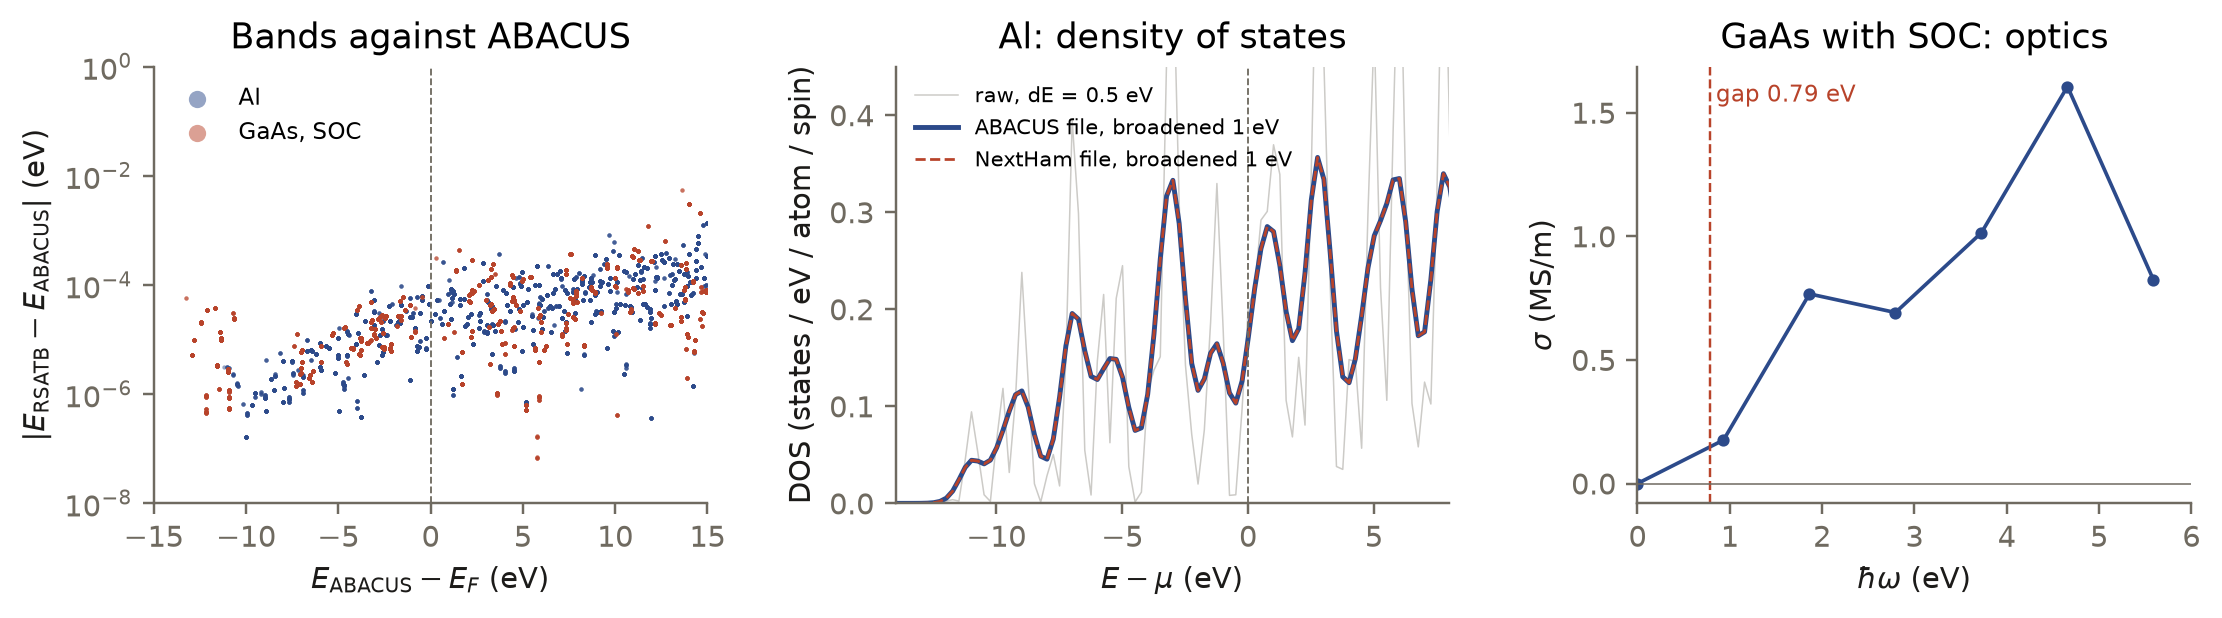
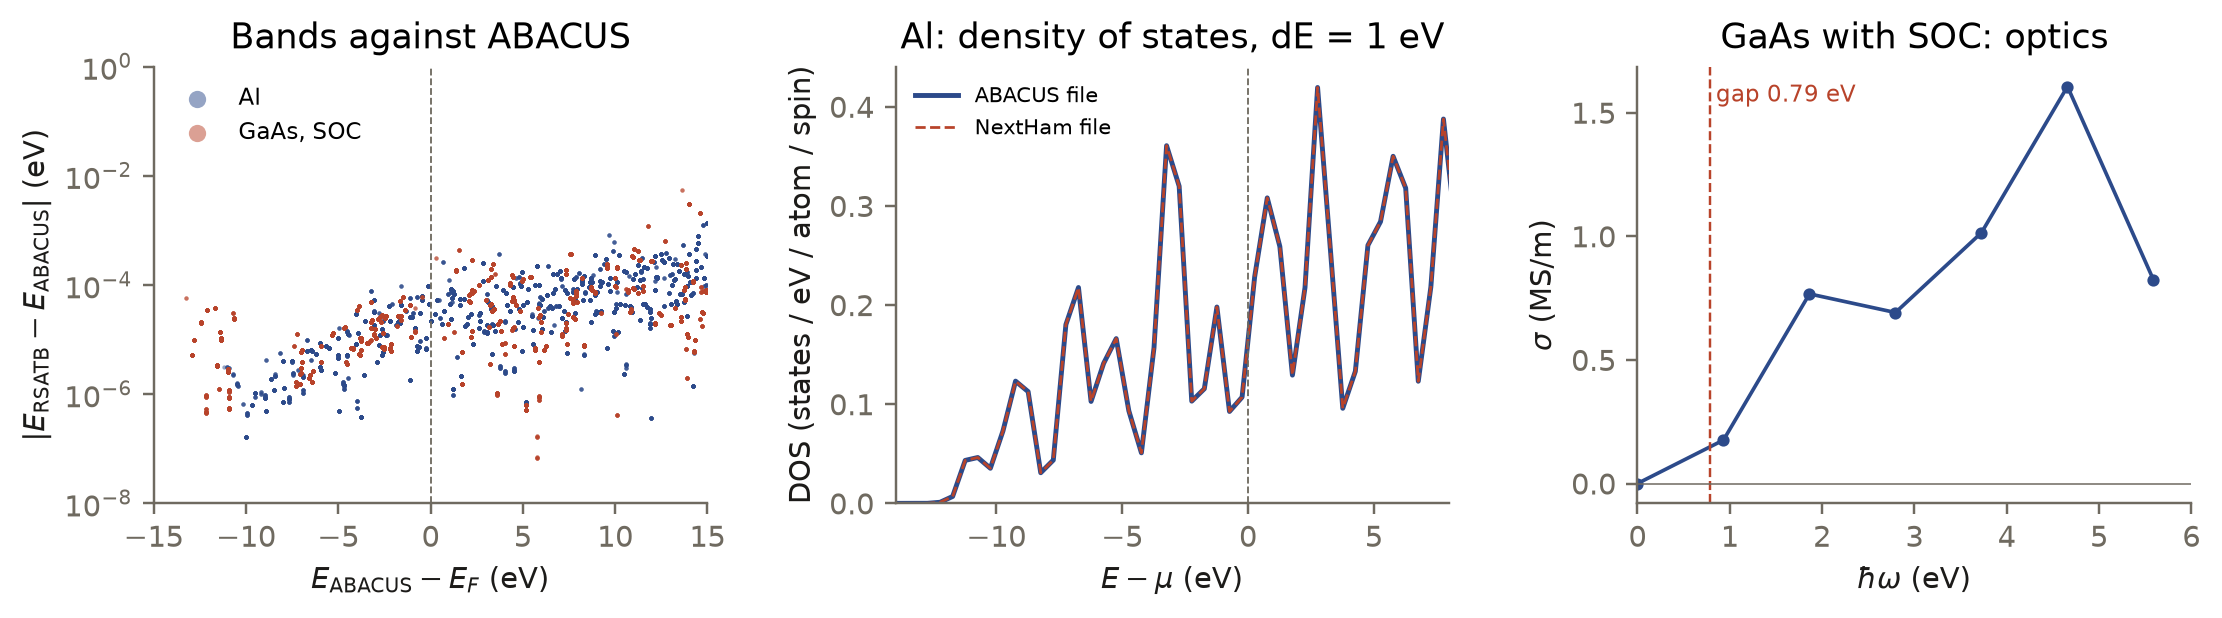
Tutorial 7: Al DOS at dE = 1 eV in both inputs, plotted as computed
al_abacus.json and al_nextham.json compute the DOS at dE = 1.0 eV
(was 0.5), and the figure plots RSATB's output directly instead of adding
a 1 eV Gaussian broadening on top of the 0.5 eV result, so the two
curves and the stated resolution are the same thing. Reran both inputs
with main's build: mu 11.635 eV and sigma 1.84 / 1.94 / 2.02 MS/m are
unchanged; the two files' DOS agree to 1.4e-9. The caption explains the
remaining peaks (discrete levels of the 27-atom cell on a 2x2x2 mesh).

diff --git a/docs/scripts/make_figures.py b/docs/scripts/make_figures.py
@@ -400,14 +400,12 @@ def fig_abacus_nextham():
         rho = d["dos"].mean(axis=0) / (emax - emin) * 21      # per atom: 21 orbitals (4s4p1d)
         e = d["energy"] - mu
         keep = (e > -16) & (e < 10)
-        # 27 atoms on a 2x2x2 mesh: discrete levels. Broaden for display, raw comb underneath.
-        smooth = _gaussian(e[keep], e[keep], 1.0, weights=rho[keep]) * float(np.mean(np.diff(e)))
-        if name == "al_abacus":
-            ax.plot(e[keep], rho[keep], color=MUTED, lw=0.5, alpha=0.35, label="raw, dE = 0.5 eV")
-        ax.plot(e[keep], smooth, color=colour, lw=lw, ls=ls, label=label + ", broadened 1 eV")
+        # Both inputs compute the DOS at dE = 1 eV; plotted as RSATB writes it.
+        ax.plot(e[keep], rho[keep], color=colour, lw=lw, ls=ls, label=label)
     ax.axvline(0, color=MUTED, lw=0.6, ls="--")
-    ax.set(xlabel=r"$E - \mu$ (eV)", ylabel="DOS (states / eV / atom / spin)", title="Al: density of states",
-           xlim=(-14, 8), ylim=(0, 0.45))
+    ax.set(xlabel=r"$E - \mu$ (eV)", ylabel="DOS (states / eV / atom / spin)",
+           title="Al: density of states, dE = 1 eV", xlim=(-14, 8))
+    ax.set_ylim(bottom=0)
     ax.legend(fontsize=7, loc="upper left")
 
     ax = axes[2]

diff --git a/docs/tutorials/abacus-nextham.md b/docs/tutorials/abacus-nextham.md
@@ -145,7 +145,7 @@ OMP_NUM_THREADS=4 mpirun -n 8 rsatb run al_nextham.json
 ```
 
 The NextHam file holds the same Hamiltonian, and the results agree: the
-density of states to within $4 \times 10^{-9}$, the Fermi level and the
+density of states to within $2 \times 10^{-9}$, the Fermi level and the
 conductivity to eight digits.
 
 ## 3 · Spin-orbit coupling: GaAs
@@ -180,8 +180,10 @@ below the 0.79 eV band gap of this Hamiltonian and rises above it.
 <figcaption><strong>Left:</strong> the difference between the bands of the
 imported Hamiltonian and ABACUS's own, at ABACUS's k-points: below
 $10^{-4}$ eV for the occupied bands. <strong>Centre:</strong> the density of
-states of Al from the ABACUS file (blue) and the NextHam file (dashed), which
-coincide; the grey line is the raw result of the 27-atom cell.
+states of Al at a resolution of 1 eV from the ABACUS file (blue) and the
+NextHam file (dashed); the two curves coincide. The peaks are the discrete
+levels of the 27-atom cell on a 2 × 2 × 2 mesh; a larger cell or k-mesh
+smooths them.
 <strong>Right:</strong> the optical conductivity of GaAs with spin-orbit
 coupling, on this input's frequency grid (0.93 eV steps).</figcaption>
 </figure>
